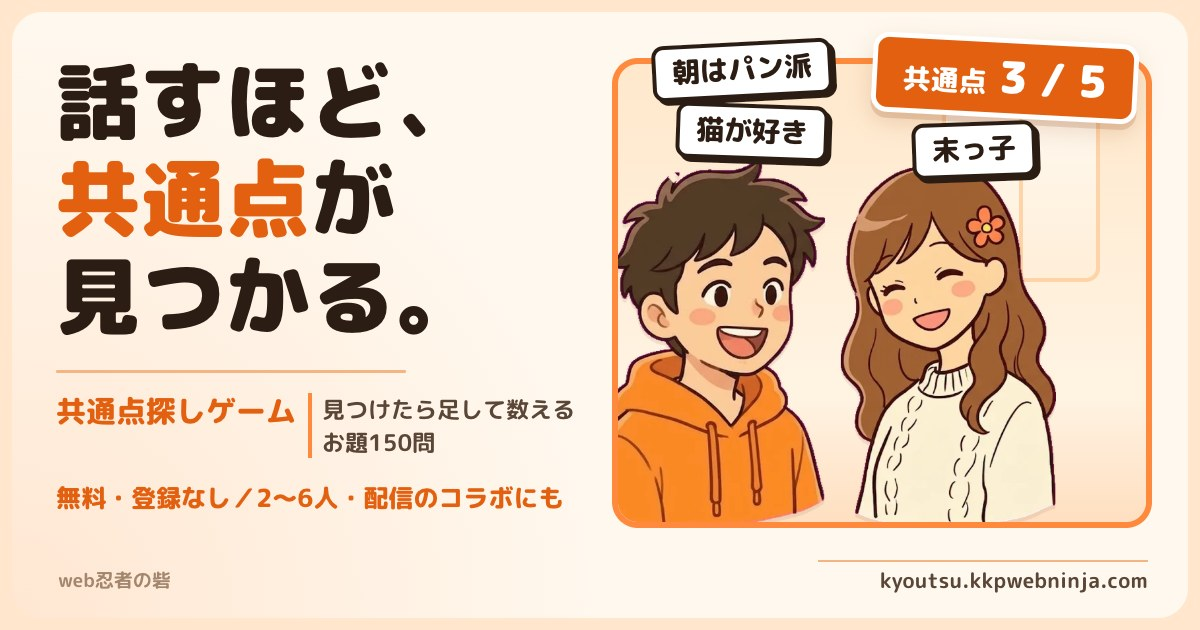
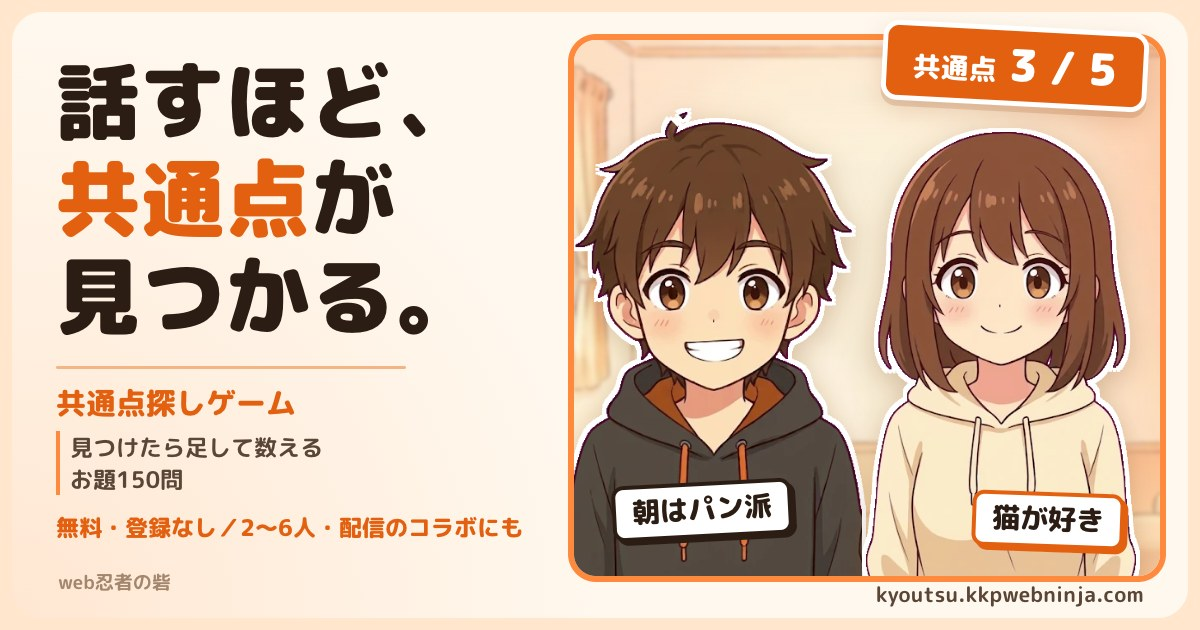
カード画像（OGP）を新しい2人の絵柄で作り直す
Canva の配信カウンターのカードと同じ2人（茶色の髪・オレンジのヘッドホン）を kkp-kit/img/chara2 に作り、人気サムネの型（顔を大きく・白いふち・場面の背景をぼかす・部品は3つまで）に合わせて kkp-kit の型から書き出し直した。
og:image・twitter:image を ?d=20261023b にして、SNS に新しい画像を読み直させる。

diff --git a/haishin/index.html b/haishin/index.html
@@ -12,9 +12,9 @@
 <meta property="og:type" content="article">
 <meta property="og:url" content="https://kyoutsu.kkpwebninja.com/haishin/">
 <meta property="og:site_name" content="共通点探しゲーム">
-<meta property="og:image" content="https://kyoutsu.kkpwebninja.com/ogp.jpg?d=20261023">
+<meta property="og:image" content="https://kyoutsu.kkpwebninja.com/ogp.jpg?d=20261023b">
 <meta name="twitter:card" content="summary_large_image">
-<meta name="twitter:image" content="https://kyoutsu.kkpwebninja.com/ogp.jpg?d=20261023">
+<meta name="twitter:image" content="https://kyoutsu.kkpwebninja.com/ogp.jpg?d=20261023b">
 <link rel="icon" type="image/png" sizes="32x32" href="/favicon.png">
 <link rel="apple-touch-icon" sizes="180x180" href="/apple-touch-icon.png">
 <script type="application/ld+json">{"@context": "https://schema.org", "@type": "Article", "headline": "配信・実況で共通点探しをする方法", "datePublished": "2026-10-20", "dateModified": "2026-10-20", "author": {"@type": "Organization", "name": "web忍者の砦"}, "publisher": {"@type": "Organization", "name": "web忍者の砦"}, "mainEntityOfPage": "https://kyoutsu.kkpwebninja.com/haishin/"}</script>

diff --git a/index.html b/index.html
@@ -17,9 +17,9 @@
 <meta property="og:type" content="website">
 <meta property="og:url" content="https://kyoutsu.kkpwebninja.com/">
 <meta property="og:site_name" content="共通点探しゲーム">
-<meta property="og:image" content="https://kyoutsu.kkpwebninja.com/ogp.jpg?d=20261023">
+<meta property="og:image" content="https://kyoutsu.kkpwebninja.com/ogp.jpg?d=20261023b">
 <meta name="twitter:card" content="summary_large_image">
-<meta name="twitter:image" content="https://kyoutsu.kkpwebninja.com/ogp.jpg?d=20261023">
+<meta name="twitter:image" content="https://kyoutsu.kkpwebninja.com/ogp.jpg?d=20261023b">
 
 <script type="application/ld+json">
 {
